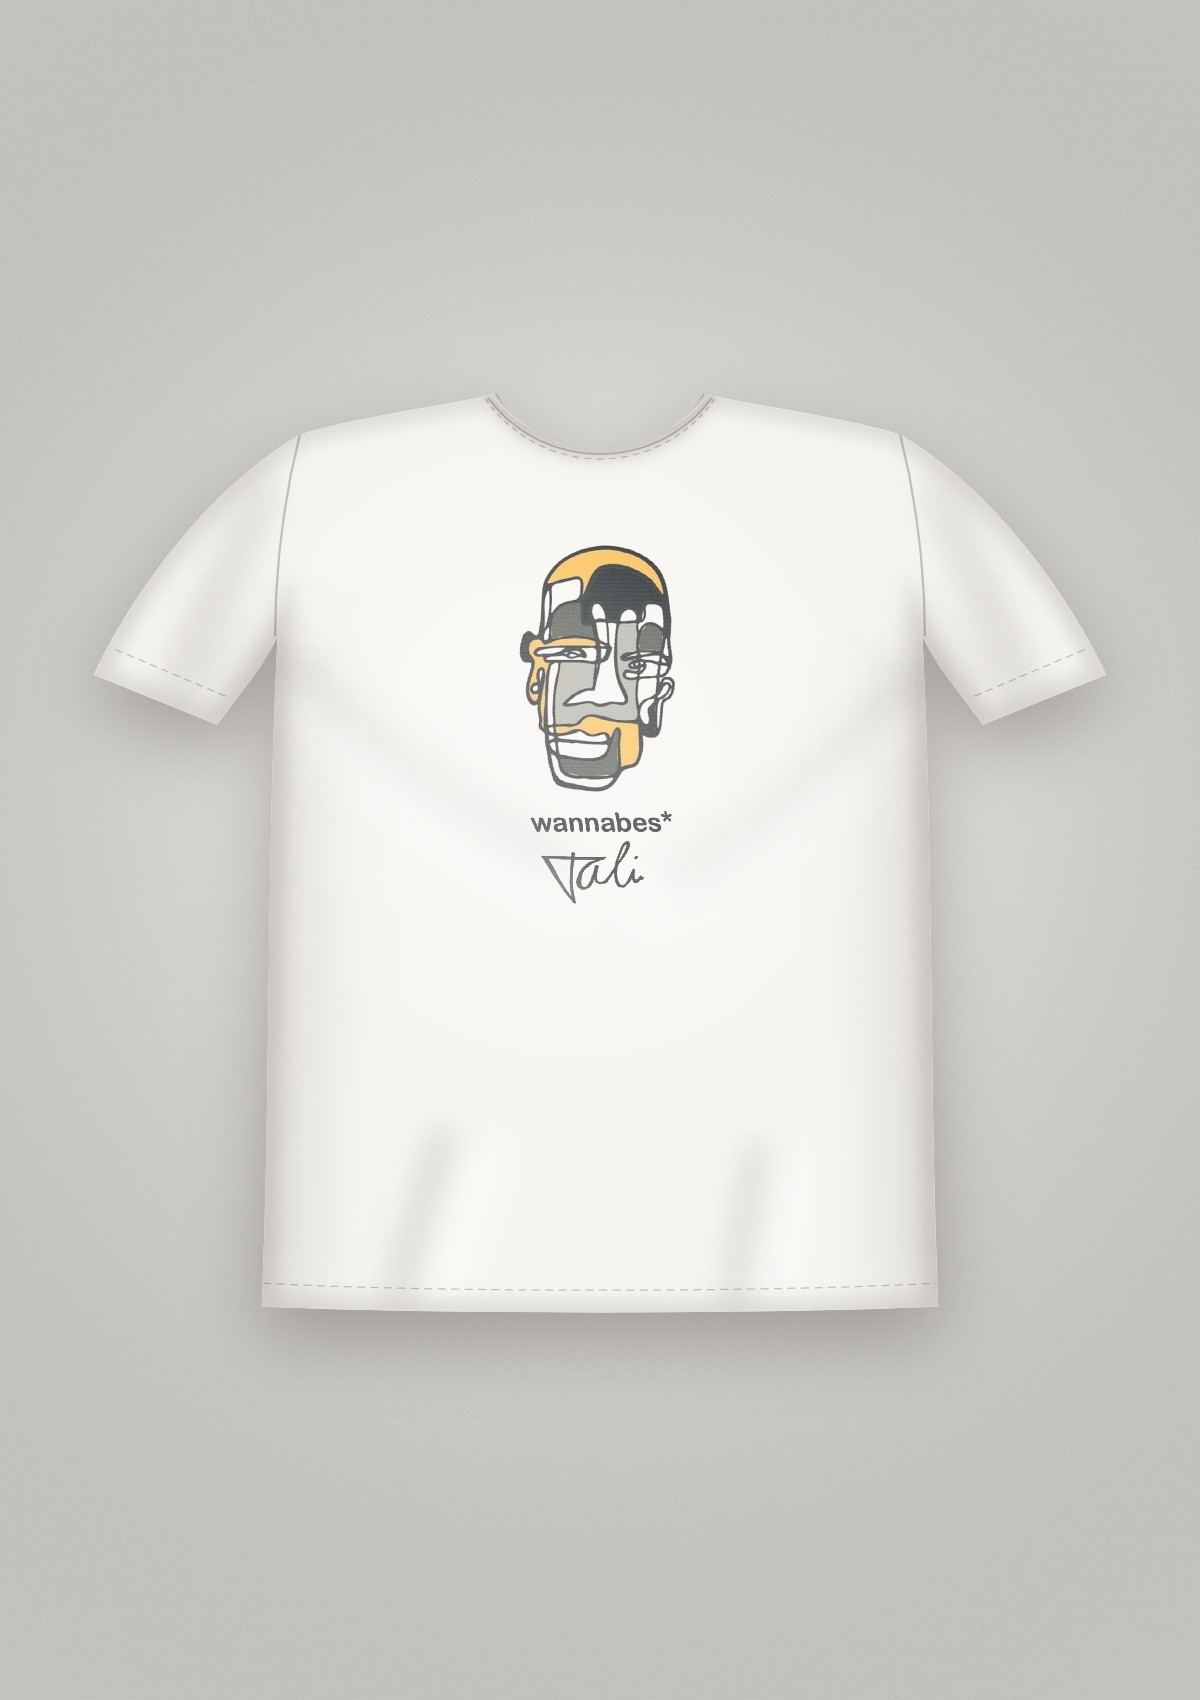
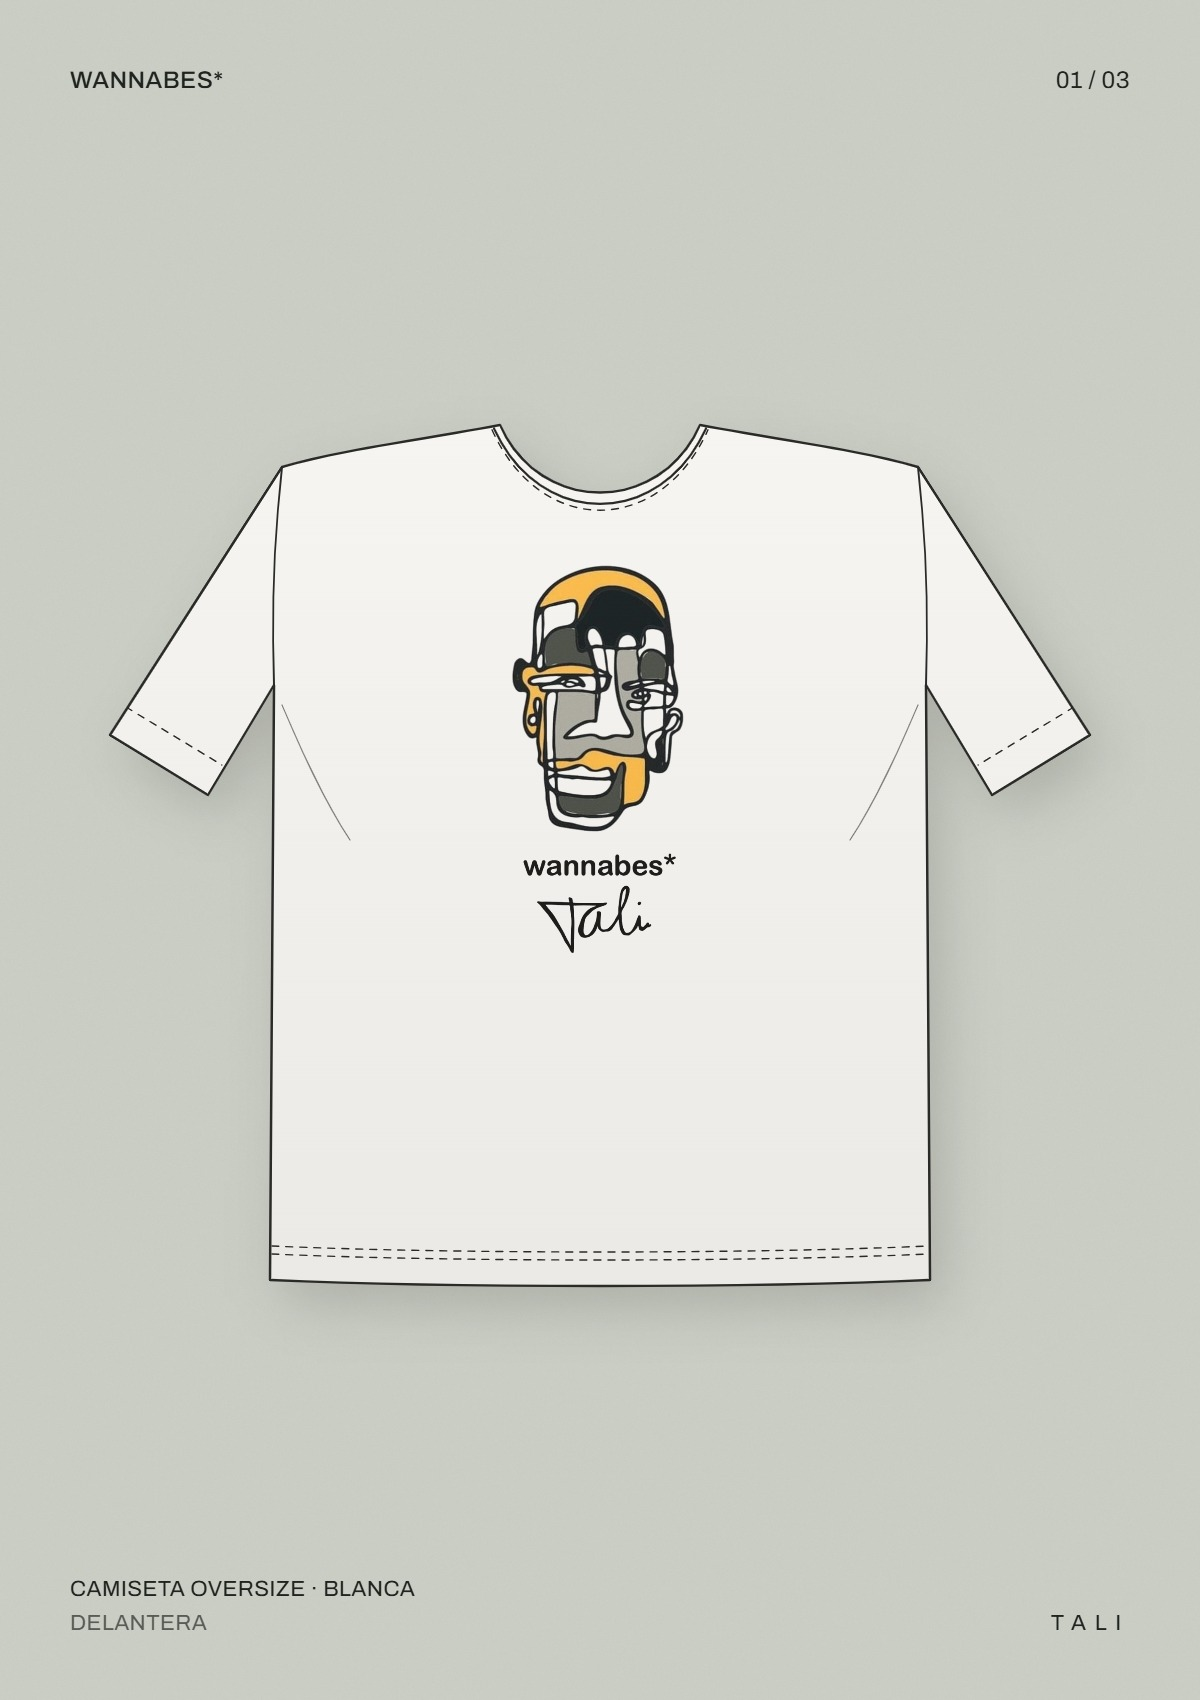
Wannabes: laminas nuevas estilo lookbook y texto mas largo y centrado

Changed region(s): [[0.0925, 0.2182, 0.925, 0.8106], [0.0617, 0.9353, 0.185, 0.9665], [0.0617, 0.0312, 0.185, 0.0624]]

diff --git a/src/data/revistas.ts b/src/data/revistas.ts
@@ -2,7 +2,7 @@
 // · Lusilla: son las páginas de su PDF (LUCILLAWEB), tal cual.
 // · El resto sigue el mismo estilo, con estos tipos de página:
 //    portada  → foto a sangre con el nombre del proyecto en mayúsculas muy espaciadas (encajar: dibujo entero, más pequeño, sobre blanco)
-//    texto    → página blanca solo con el texto del proyecto (de proyectos.ts), sin títulos
+//    texto    → página blanca solo con el texto del proyecto (de proyectos.ts), sin títulos (centrado: en el centro de la página)
 //    imagen   → una foto a sangre
 //    doble    → una foto que ocupa las dos páginas abiertas (encajar: entera, sobre blanco)
 //    pequena  → una imagen pequeña centrada sobre blanco
@@ -14,7 +14,7 @@
 
 export type Pagina =
   | { tipo: 'portada'; imagen: string; oscuro?: boolean; encajar?: boolean }
-  | { tipo: 'texto' }
+  | { tipo: 'texto'; centrado?: boolean }
   | { tipo: 'imagen'; imagen: string }
   | { tipo: 'doble'; imagen: string; encajar?: boolean }
   | { tipo: 'pequena'; imagen: string }
@@ -72,7 +72,7 @@ export const revistas: Record<string, Revista> = {
     // portada: el dibujo del diseño 03; después, cada diseño (render) junto a su prototipo (foto)
     paginas: [
       { tipo: 'portada', imagen: d('wannabes/03-diseno'), oscuro: true, encajar: true },
-      { tipo: 'texto' },
+      { tipo: 'texto', centrado: true },
       { tipo: 'imagen', imagen: d('wannabes/01-render') },
       { tipo: 'imagen', imagen: d('wannabes/01-modelo') },
       { tipo: 'imagen', imagen: d('wannabes/02-render') },

diff --git a/src/data/proyectos.ts b/src/data/proyectos.ts
@@ -49,8 +49,8 @@ export const proyectos: Proyecto[] = [
     titulo: { es: 'Wannabes', en: 'Wannabes' },
     portada: 'diseno/wannabes/03-diseno.jpg',
     texto: {
-      es: 'Diseños de camiseta para la marca Wannabes a partir de mis dibujos de rostros a línea. Cada diseño se muestra en render junto a su prototipo, con la prenda puesta.',
-      en: 'T-shirt designs for the Wannabes brand, based on my line-drawn faces. Each design is shown as a render next to its prototype, worn.',
+      es: 'Para la marca Wannabes llevé a la camiseta mis dibujos de rostros a línea: caras que se cruzan, se superponen y se confunden unas con otras.\n\nDiseñé tres piezas. Una cara de color en el pecho, pequeña, casi como una firma. Un grupo de rostros en blanco que ocupa toda la espalda de una camiseta negra. Y una columna de caras diminutas en una manga larga, que de lejos parece un estampado y de cerca es una multitud.\n\nCada diseño aparece aquí dos veces: primero como lámina, y al lado su prototipo, la prenda real puesta.',
+      en: 'For the Wannabes brand I took my line-drawn faces onto the T-shirt: faces that cross, overlap and blur into one another.\n\nI designed three pieces. A small colour face on the chest, almost like a signature. A group of white faces covering the whole back of a black T-shirt. And a column of tiny faces on a long-sleeve top, which from afar looks like a print and up close is a crowd.\n\nEach design appears here twice: first as a plate, and next to it its prototype, the real garment worn.',
     },
   },
   {
